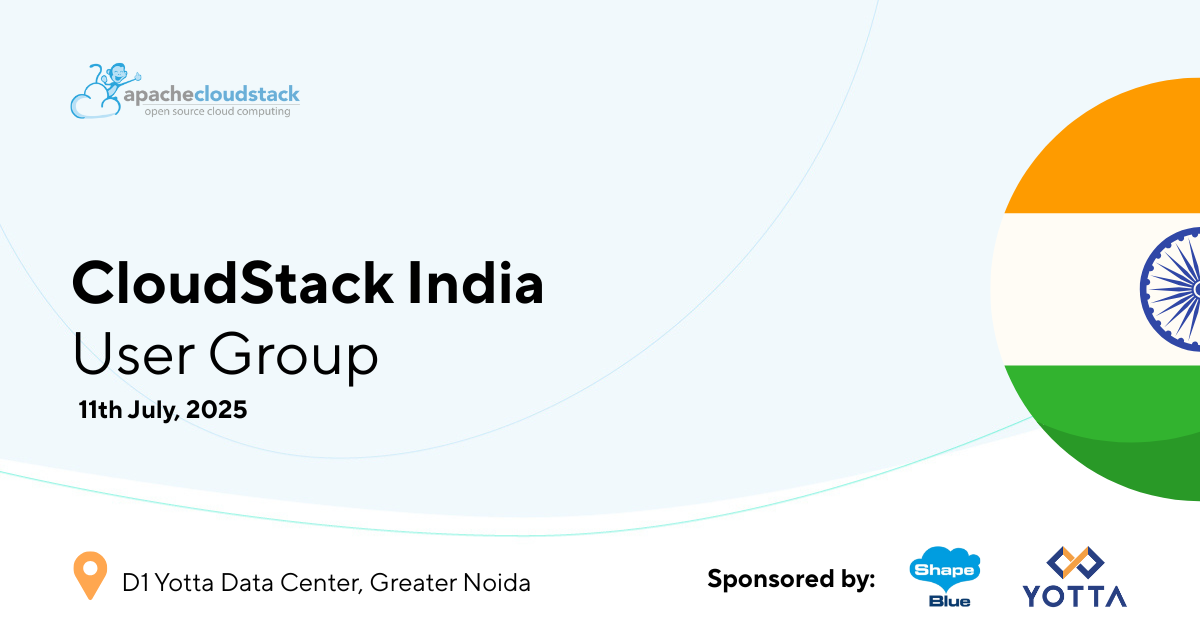
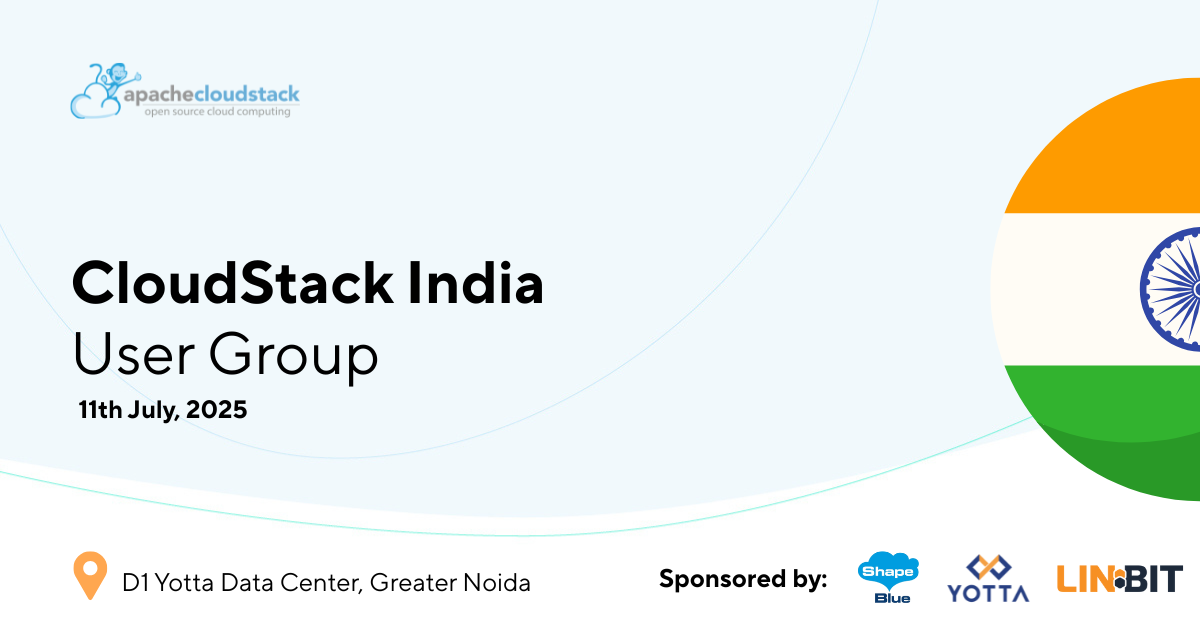
update csiug '25

Changed region(s): [[0.5242, 0.8471, 0.9867, 0.9682], [0.0617, 0.121, 0.1233, 0.1513]]

diff --git a/blog/2025-05-21-cloudstack-india-user-group-2025/index.md b/blog/2025-05-21-cloudstack-india-user-group-2025/index.md
@@ -18,29 +18,43 @@ in-depth discussions on building and running open-source cloud infrastructure.
 Expect real-world case studies, project updates, and valuable insights from
 across the CloudStack ecosystem.
 
-The 2025 CSIUG is supported by [ShapeBlue](https://www.shapeblue.com/) and
-[Yotta](https://yotta.com/).
+The 2025 CSIUG is supported by [ShapeBlue](https://www.shapeblue.com/), [Yotta](https://yotta.com/) and [LINBIT](https://linbit.com/).
 
 <div class="col col-3 col-lg text-center">
 <a class="button button--primary button--lg" href="https://www.eventbrite.com/e/cloudstack-india-user-group-2025-tickets-1374146161159?aff=oddtdtcreator" target="_blank">REGISTER</a>
 </div>
 
-## Call for Presentations
-
-We’re inviting session proposals that showcase technical expertise, real-world
-CloudStack implementations, best practices, feature deep-dives, and fresh
-perspectives on open-source cloud technologies.
-
-Use the button below to submit your proposal and take the opportunity to share
-your experience with the global CloudStack community. Please note, the deadline
-for CFP is <strong>16th June 2025</strong>.
-
-<br/>
-<div class="col col-3 col-lg text-center">
-<a class="button button--primary button--lg" href="https://docs.google.com/forms/d/e/1FAIpQLSdt8GkcDiTOxfzXUpf2r37sAEZwqPCuMg200JfAXF4HOgEHkA/viewform" target="_blank">Submit a Talk</a>
-</div>
-
 <!-- truncate -->
+
+## Event Agenda
+
+09.00 - 09.45 - Registration & Networking
+
+09.45-10.00 - Meetup Kickoff & Welcome – Rohit Yadav, CSIUG Chairman
+
+10.00 -10.25 - The Yotta x CloudStack Advantage: a Scalable, India-First Cloud - Tailored for Sovereignty, Flexibility, Affordability and Innovation – Sunil Gupta, Yotta
+
+10.30 - 11.15 - Apache CloudStack 201: Let's Design & Build an IaaS Cloud – Jithin Raju, ShapeBlue
+
+11.30 - 11.55 - Empowering Cloud Providers with Apache CloudStack and Stackbill: From Infrastructure to Business Success - Ravichandran Palanisamy, StackBill
+
+12.00 - 12.25 - Ampere offers energy-efficient future for AI and Cloud - Vinod Kumar, Ampere Computing
+
+12.30 - 12.55 - Building and Operating a Private Cloud with CloudStack and LINBIT CloudStack HCI Appliance - Nischal Prabhu, LINBIT
+
+13.00 - 13.50 - Lunch & Networking
+
+13.50pm - 14.50 – Datacentre Tour
+
+14.50 - 15.00 - Meetup Photo-Op & Break
+
+15.00 - 15.25 - CloudStack GPU Integration - Rohit Yadav, ShapeBlue
+
+15.30 -15.55 - Simplifying End-to-End Apache CloudStack Deployment with a Web-Based Automation Portal - Vivek Kumar, Yotta
+
+16.00 -16.25 - Extensions Framework (XaaS) - Enabling Orchestrate Anything - Harikrishna Patnala & Abhishek Kumar, ShapeBlue
+
+16.30 - 17.30 - Meetup Closing & Networking
 
 ## Who Should Attend?
 
